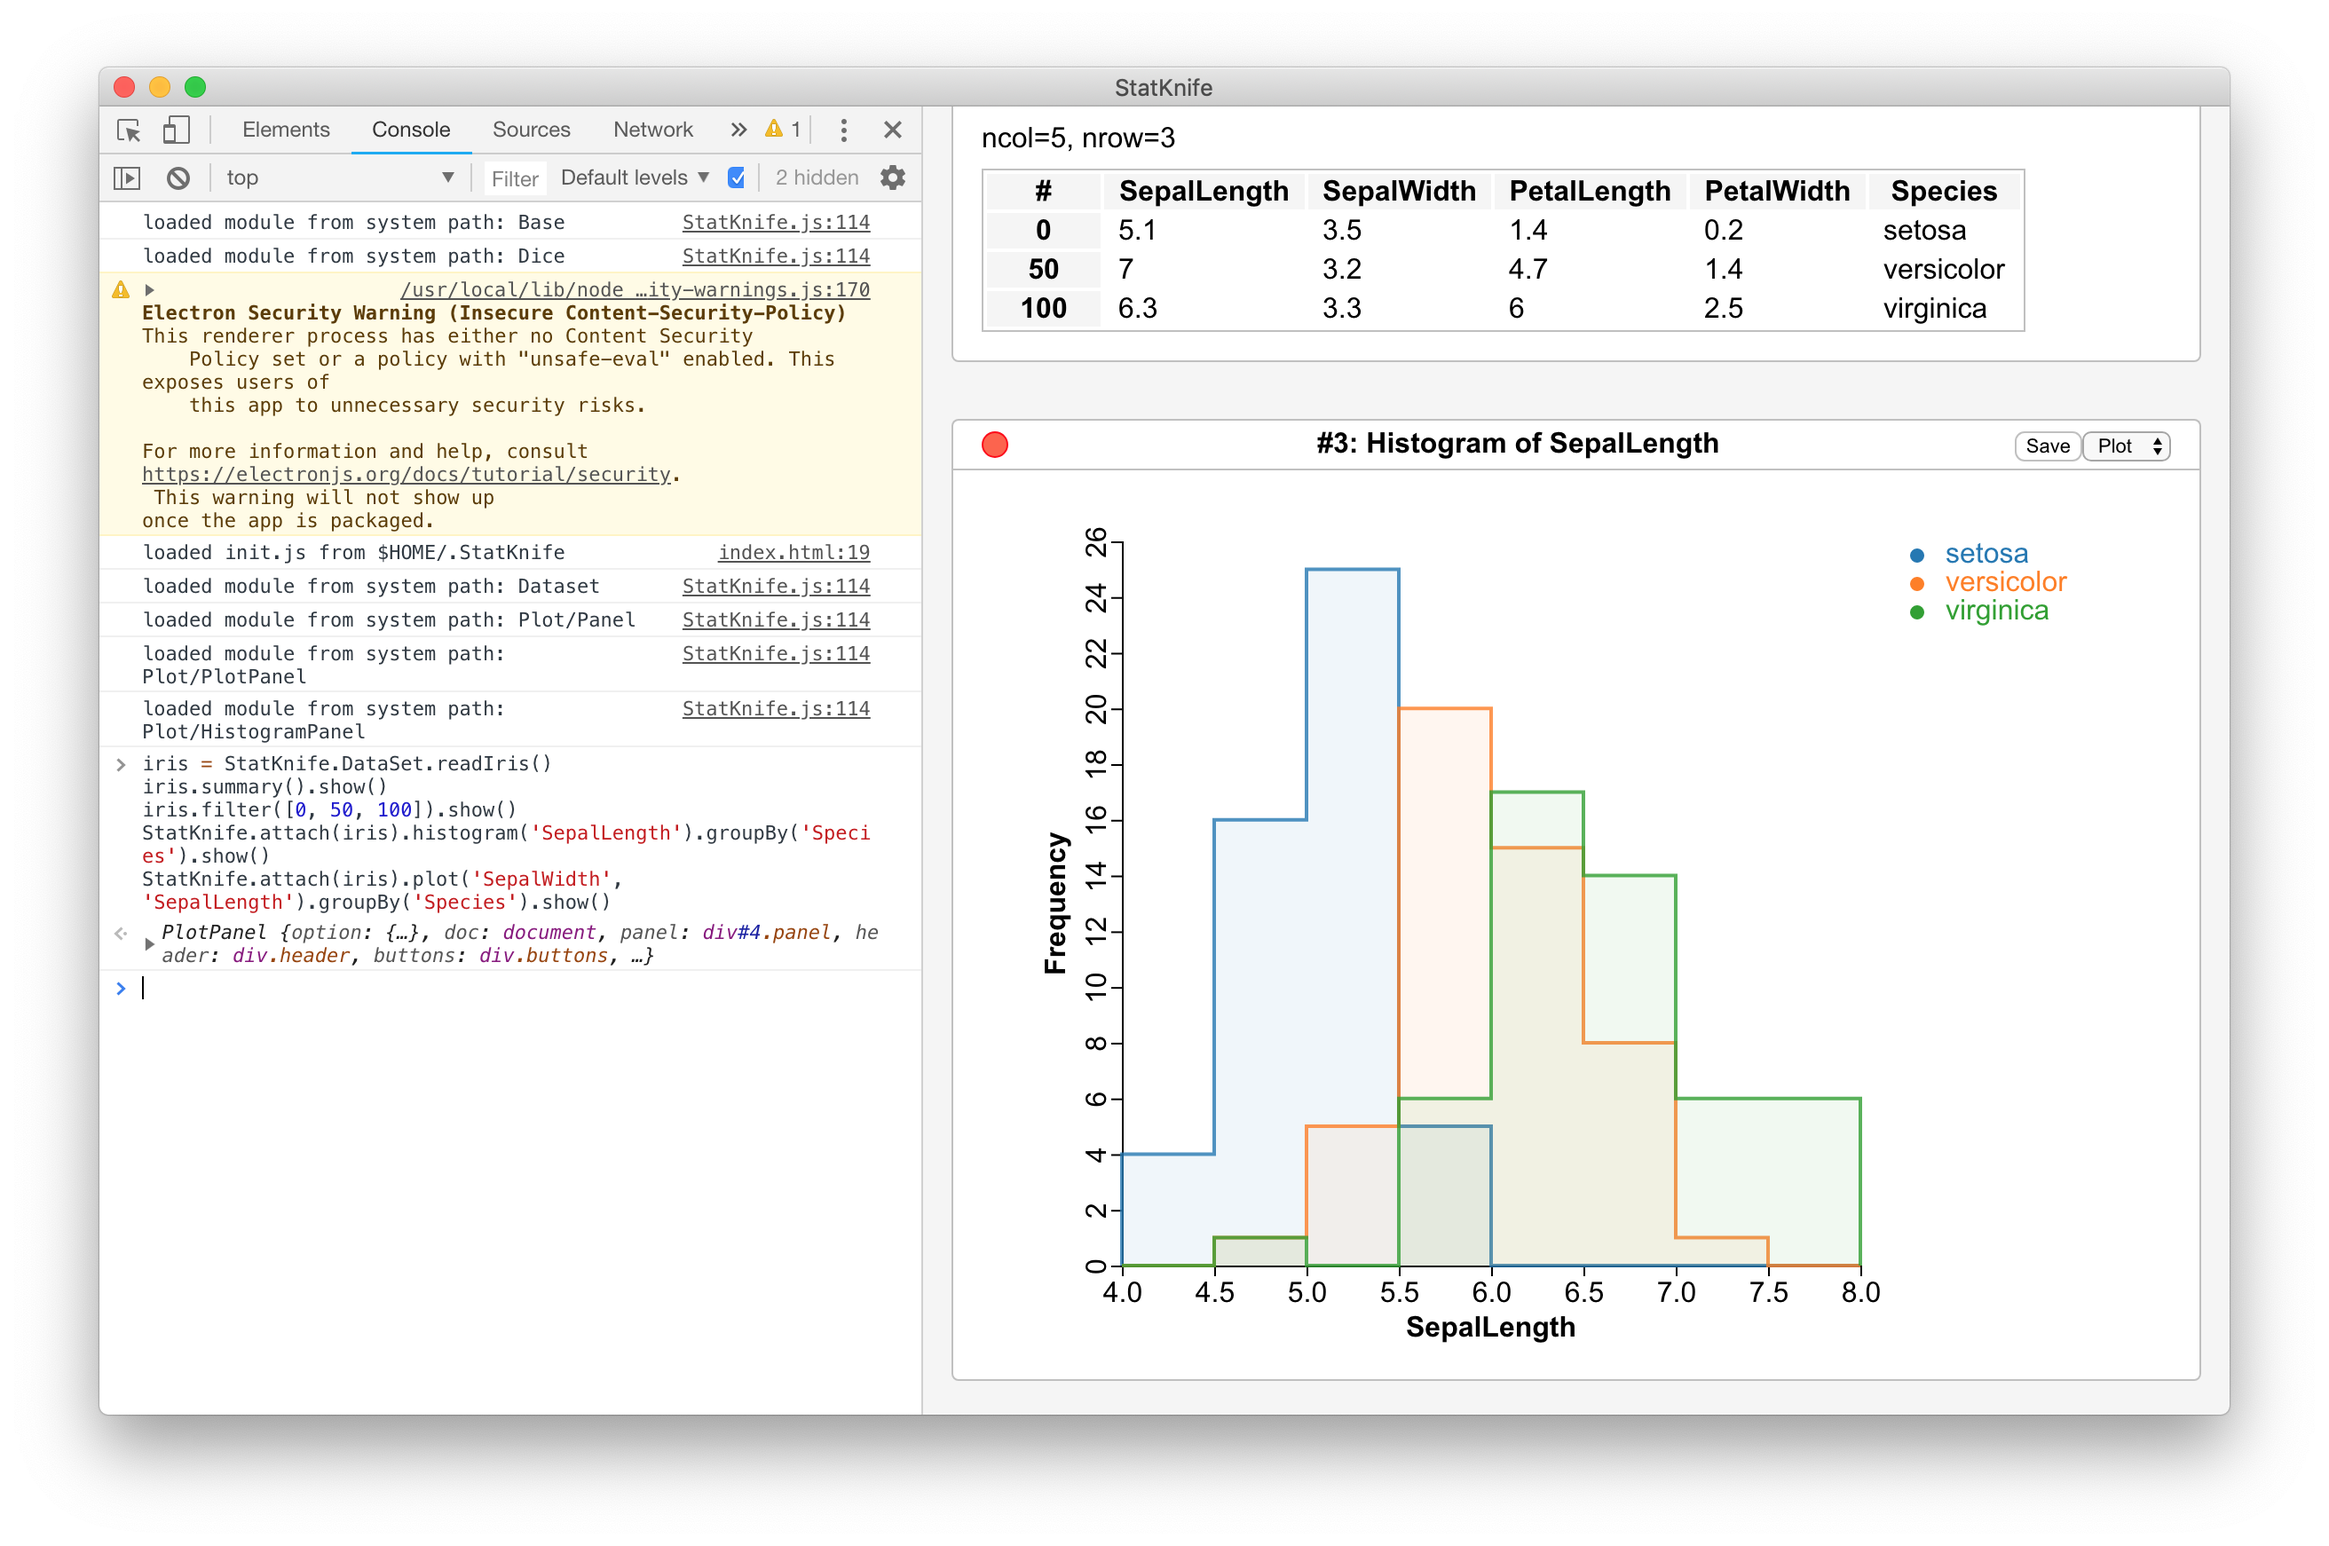
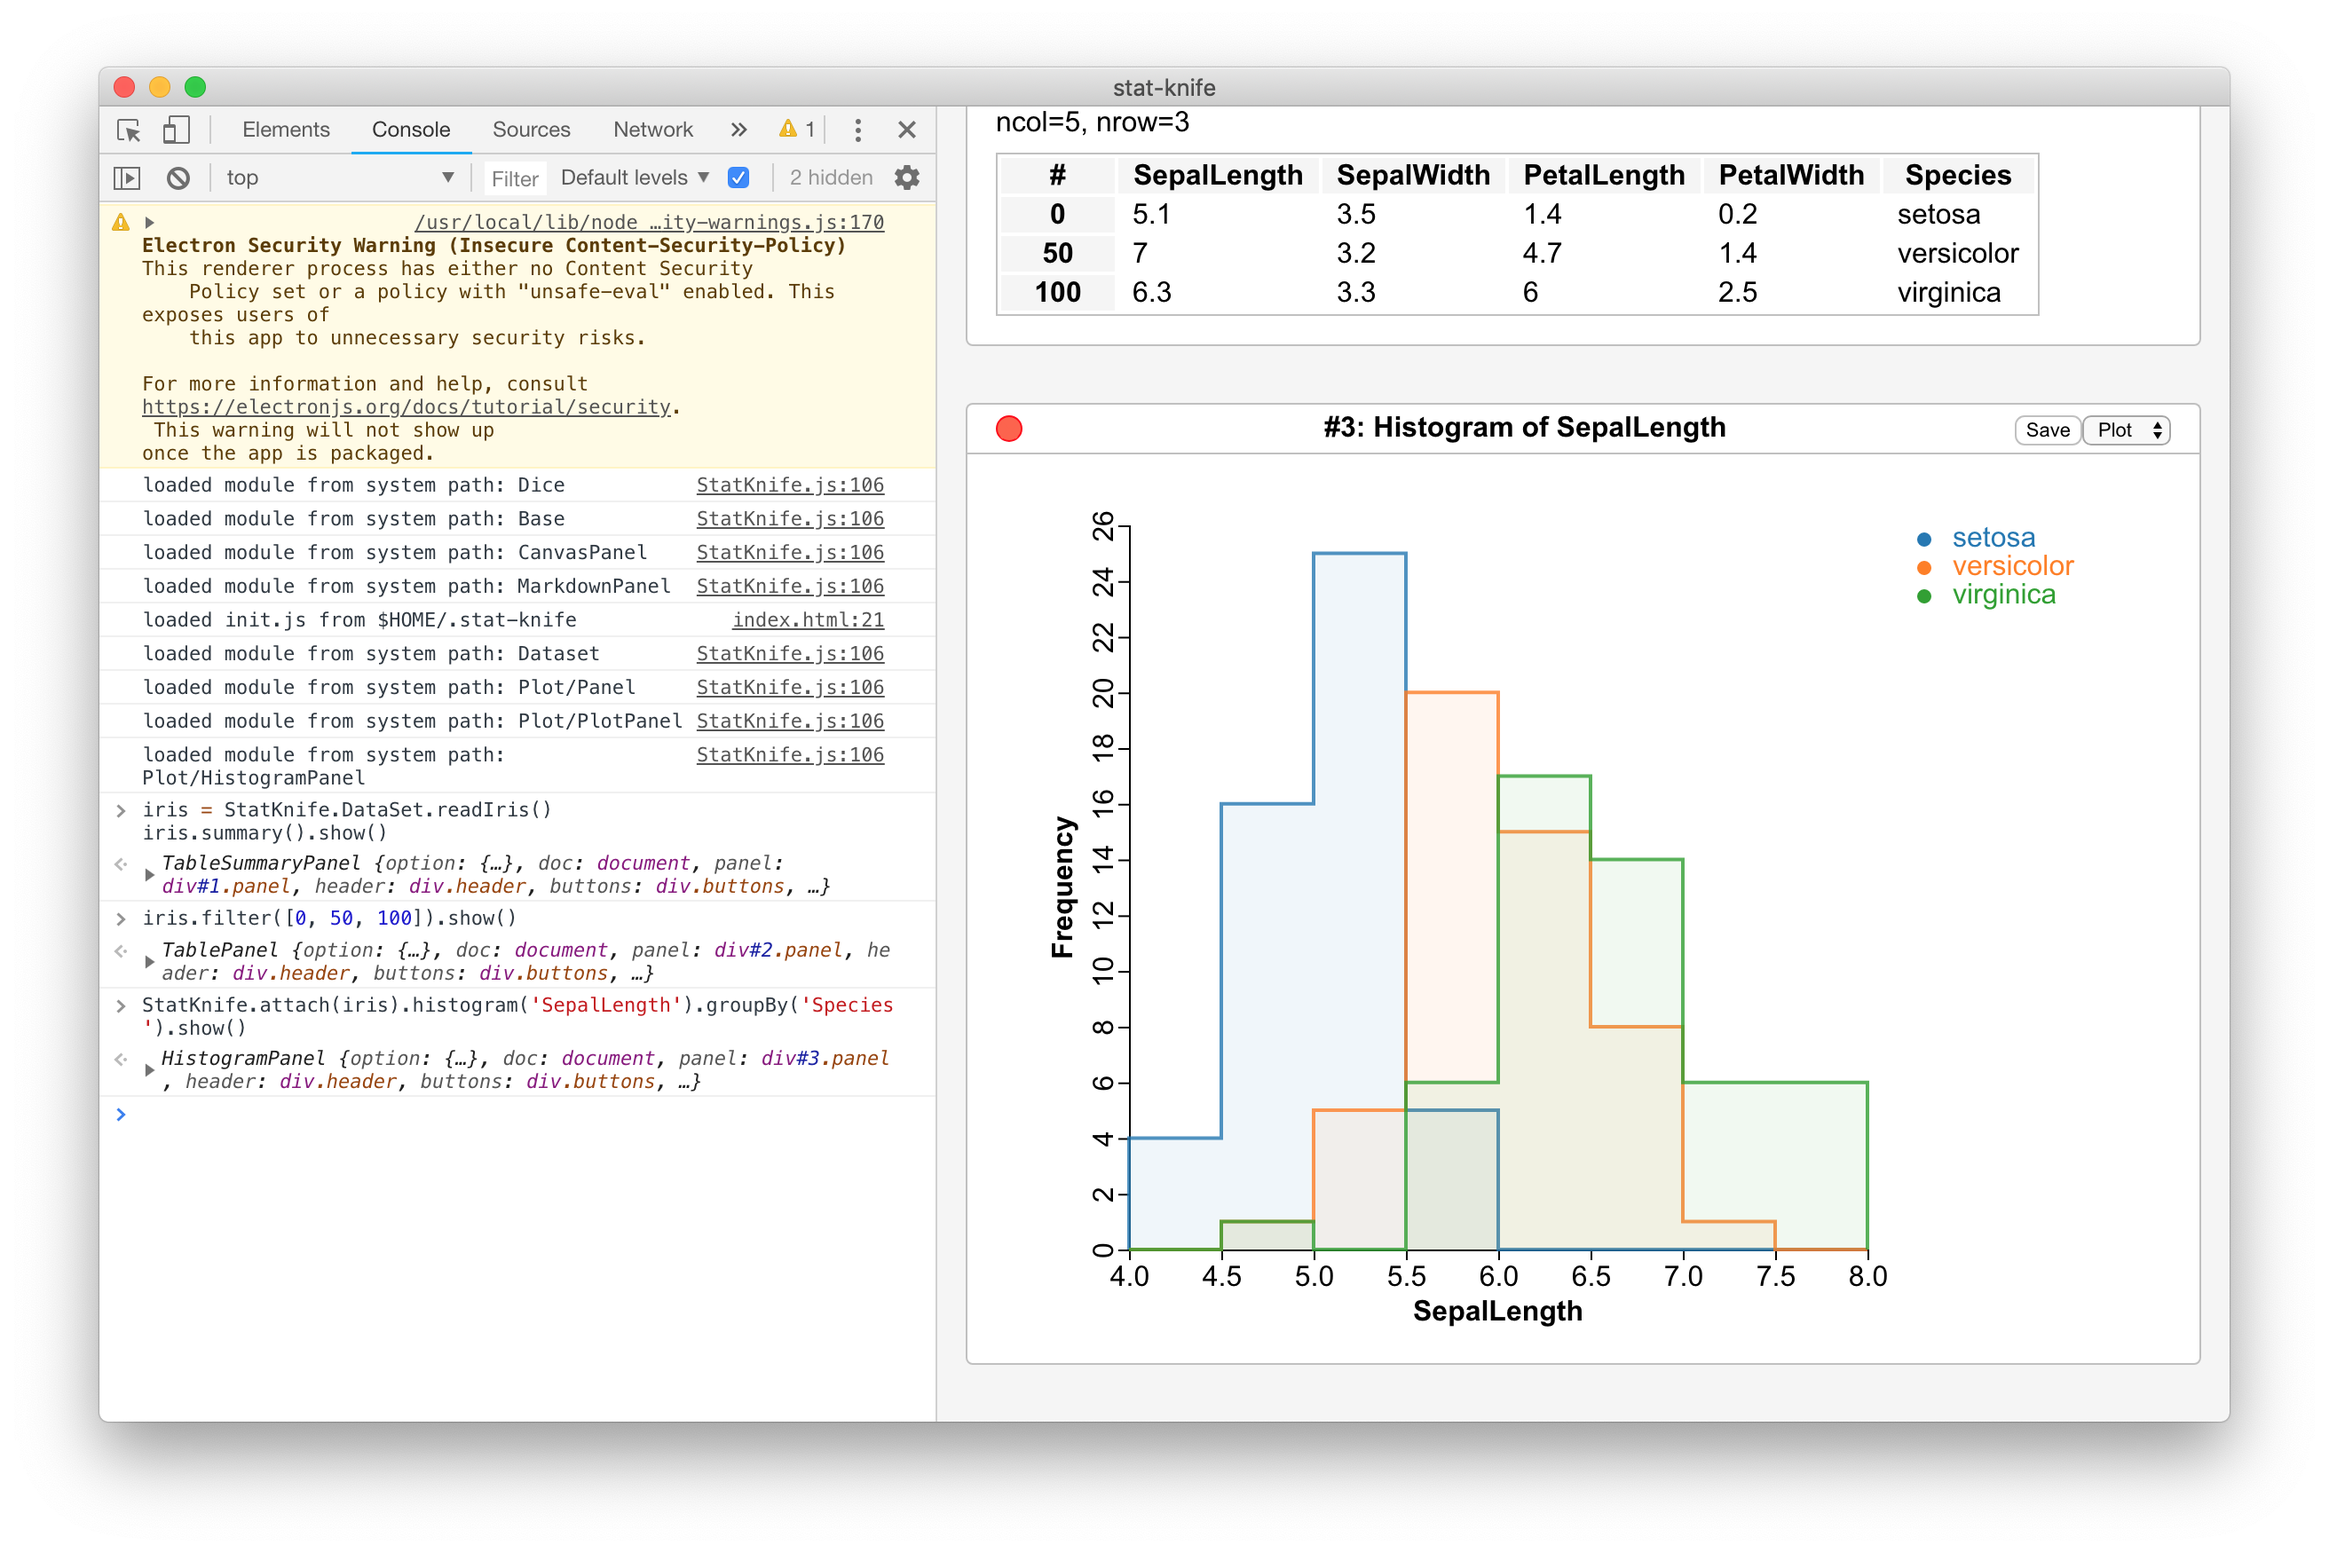
Renamed the project name ...

diff --git a/lib/DataSet.js b/lib/DataSet.js
@@ -1,6 +1,5 @@
 const fs = require('fs');
 const d3 = require('d3');
-import {Panel} from './StatKnife.js';
 
 Array.prototype.typename = function(newtypename) {
   if (newtypename === undefined) {
@@ -30,7 +29,7 @@ Array.prototype.moment = function(order) {
   return s/this.length;
 };
 Array.prototype.quantiles = function(ps) {
-  const s = (new Array(...this)).sort();
+  const s = (new Array(...this)).sort((x, y) => x - y);
   const n = s.length;
   const qs = {};
   for (const p of ps) {
@@ -62,11 +61,11 @@ Array.prototype.var = function() {
   return s/(this.length - 1);
 };
 
-export class ArraySummaryPanel extends Panel {
+export class ArraySummaryPanel extends StatKnife.Panel {
   constructor(data, ...args) {
     super('Summary of Array', ...args);
     this.data = data;
-    this.name = `Summary of ${this.typename.capitalizeFirst()}Array`;
+    this.name(`Summary of ${this.typename.capitalizeFirst()}Array`);
     this.summaryHeader = this.container.createChild('div').attrs({'class': 'header'});
     this.summaryHeader.setElem(`length=${this.data.length}, type=${this.typename}`);
     this.summaryTable = this.container.createChild('table');
@@ -213,7 +212,7 @@ Array.prototype.toTable = function (name) {
   return this;
 };
 
-export class TablePanel extends Panel {
+export class TablePanel extends StatKnife.Panel {
   constructor(tbl, ...args) {
     super(`Table ${tbl.name}`, ...args);
     this.tbl = tbl;
@@ -234,7 +233,7 @@ export class TablePanel extends Panel {
   }
 }
 
-export class TableSummaryPanel extends Panel {
+export class TableSummaryPanel extends StatKnife.Panel {
   constructor(tbl, ...args) {
     super(`Summary of Table ${tbl.name}`, ...args);
     this.tbl = tbl;

diff --git a/index.html b/index.html
@@ -16,11 +16,11 @@
       window.StatKnife.importFromSystemPath('CanvasPanel');
       window.StatKnife.importFromSystemPath('Plot/Panel');
       window.StatKnife.importFromSystemPath('MarkdownPanel');
-      const initPath = `${process.env['HOME']}/.StatKnife/init.js`;
+      const initPath = `${process.env['HOME']}/.stat-knife/init.js`;
       if (fs.existsSync(initPath)) {
-        import(`es6-root://${initPath}`).then(() => console.log(`loaded init.js from $HOME/.StatKnife`));
+        import(`es6-root://${initPath}`).then(() => console.log(`loaded init.js from $HOME/.stat-knife`));
       } else {
-        console.log(`skipped to load init.js from $HOME/.StatKnife`);
+        console.log(`skipped to load init.js from $HOME/.stat-knife`);
       }
     </script>
   </body>

diff --git a/lib/MarkdownPanel.js b/lib/MarkdownPanel.js
@@ -1,13 +1,12 @@
 const fs = require('fs');
-const mdit = require('markdown-it');
+const MarkdownIt = require('markdown-it');
 
 export default class MarkdownPanel extends StatKnife.Panel {
   static onimported(StatKnife) {
     StatKnife.markdown = (...args) => new MarkdownPanel(...args);
   }
   constructor(...args) {
-    super(...args);
-    this.name('Markdown Text');
+    super('Markdown Text', ...args);
     this.text('');
   }
   text(value) {
@@ -23,7 +22,7 @@ export default class MarkdownPanel extends StatKnife.Panel {
   }
 
   show() {
-    this.container.innerHTML = mdit().render(this.text());
+    this.container.innerHTML = (new MarkdownIt()).render(this.text());
     return super.show();
   }
 }

diff --git a/README.md b/README.md
@@ -1,10 +1,10 @@
-# StatKnife - A Convenient Knife for Statistical Operations
+# stat-knife - A Convenient Knife for Statistical Operations
 
 Copyright 2019- Tatsuhiro Aoshima (hiro4bbh@gmail.com).
 
 ## Introduction
 
-StatKnife is a convenient knife for statistical operations.
+stat-knife is a convenient knife for statistical operations.
 It will also provide many features supported by modern Web browsers in many development environments.
 
 ## Features
@@ -15,7 +15,7 @@ It will also provide many features supported by modern Web browsers in many deve
 - Support the simple data manipulations
 - Support the simple random number generators
 - Support the markdown viewer
-- Load the user configuration script at `$HOME/.StatKnife/init.js`
+- Load the user configuration script at `$HOME/.stat-knife/init.js`
 
 ## Showcases
 
@@ -35,6 +35,7 @@ StatKnife.attach(iris).plot('SepalWidth', 'SepalLength').groupBy('Species').show
 ```js
 dice = new StatKnife.Dice(20190216)
 sampleNorm = Array(100000).fill(0.0).map((_, i) => dice.uniformDist()())
+sampleNorm.summary().show()
 StatKnife.attach(sampleNorm).histogram('value').thresholds(100).show()
 ```
 
@@ -56,7 +57,7 @@ StatKnife.markdown().textFromFile('./README.md').show()
 
 ## Installation and Development
 
-The latest macOS is recommended for installing and developing StatKnife.
+The latest macOS is recommended for installing and developing stat-knife.
 
 ### Preparation
 
@@ -66,36 +67,36 @@ Install [node.js](https://nodejs.org/), then install [Electron](https://electron
 $ npm -g install electron
 ```
 
-### Install StatKnife
+### Install stat-knife
 
-Download StatKnife in your terminal as follows:
+Download stat-knife in your terminal as follows:
 
 ```
-$ git clone https://github.com/hiro4bbh/StatKnife
+$ git clone https://github.com/hiro4bbh/stat-knife
 ```
 
-Then, install the packages depended on by StatKnife at the root of StatKnife as follows:
+Then, install the packages depended on by stat-knife at the root of stat-knife as follows:
 
 ```
 $ npm install
 ```
 
-### Use and Develop StatKnife
+### Use and Develop stat-knife
 
-Start StatKnife at the root of StatKnife in your terminal as follows:
+Start stat-knife at the root of stat-knife in your terminal as follows:
 
 ```
 $ electron .
 ```
 
-[Visual Studio Code](https://code.visualstudio.com/) (VSCode) is recommended for developing StatKnife.
+[Visual Studio Code](https://code.visualstudio.com/) (VSCode) is recommended for developing stat-knife.
 VSCode provides a compact and fast development environment, including the terminal!
 
 ## TODO
 
 - Prepare documentations.
 - Write unit tests.
-- Prepare StatKnife logo.
+- Prepare stat-knife logo.
 - Implement more statistical functions.
 - Tweak visual styles and plot options.
 - Prepare release packages.
